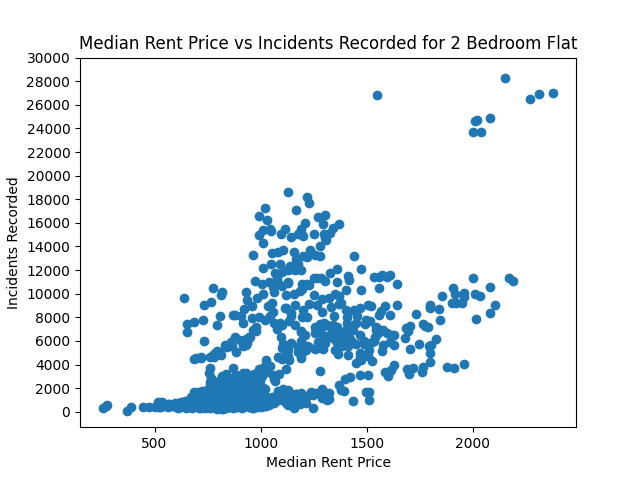
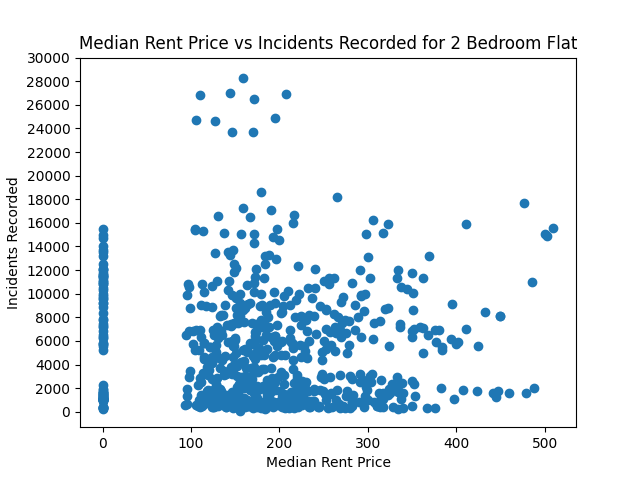
made changes to preprocessing median house prices

diff --git a/scatter.py b/scatter.py
@@ -67,11 +67,28 @@ def preprocess_house(fname):
     df.insert(1, "Year", years, True)
     df.drop("Quarter", inplace=True, axis=1)
     df = df.reset_index()
-    df = df.groupby(['Year', 'LGA']).sum()
-    df = df[-790::]
-    df = df.reset_index().drop("index", axis=1)
+    prices_new = [''] * (79 * 22)
+    i = 0
+    for year in list(set(years)):
+        for LGA in list(set(df["LGA"].to_list())):
+            temp = df[df["Year"] == year]
+            temp = temp[temp["LGA"] == LGA]
+            temp = temp[temp["Median House Price"] != 0]
+            if len(temp):
+                p = temp["Median House Price"].to_list()
+            else:
+                p = [0]
+            prices_new[i] = sum(p) / len(p)
+            i += 1
 
-    return df
+    df1 = df.groupby(['Year', 'LGA']).sum()
+    df1["Median House Price"] = prices_new
+    df1 = df1[-790::]
+    df1 = df1.reset_index().drop("index", axis=1)
+
+
+
+    return df1
 
 
 
@@ -115,15 +132,14 @@ def preprocess_combined(df1, df2):
 
 
 # reading in csv files
-one_bf = preprocess_house("1bflat.csv") # contains count and median price
+c1 = preprocess_crime1("crime1.csv") # contains incidents and rate/100k
+one_bf = preprocess_combined(preprocess_house("1bflat.csv"), c1) # contains count and median price
 two_bf = preprocess_house("2bflat.csv") 
 two_bh = preprocess_house("2bhouse.csv")
 three_bf = preprocess_house("3bflat.csv") 
 three_bh = preprocess_house("3bhouse.csv")
 four_bh = preprocess_house("4bhouse.csv") 
 all = preprocess_house("all.csv")
-c1 = preprocess_crime1("crime1.csv") # contains incidents and rate/100k
-
 
 
 # three_bh = three_bh[-79:]
@@ -141,7 +157,7 @@ c1 = preprocess_crime1("crime1.csv") # contains incidents and rate/100k
 # c1.to_csv("c1.csv")
 
 # 1 BEDROOM FLAT
-plt.scatter(preprocess_combined(one_bf, c1)["Median House Price"], preprocess_combined(one_bf, c1)["Incidents Recorded"])
+plt.scatter(one_bf["Median House Price"], one_bf["Incidents Recorded"])
 plt.xlabel("Median Rent Price")
 plt.ylabel("Incidents Recorded")
 plt.title("Median Rent Price vs Incidents Recorded for 1 Bedroom Flat")
@@ -149,7 +165,7 @@ plt.yticks(np.arange(0, 32000, 2000))
 plt.savefig("plot1bf.png")
 plt.clf()
 
-plt.scatter(preprocess_combined(one_bf, c1)["Median House Price"], preprocess_combined(one_bf, c1)["Rate per 100,000 population"])
+plt.scatter(one_bf["Median House Price"], one_bf["Rate per 100,000 population"])
 plt.xlabel("Median Rent Price")
 plt.ylabel("Rate per 100,000 population")
 plt.title("Median Rent Price vs Rate per 100,000 population for 1 Bedroom Flat")
